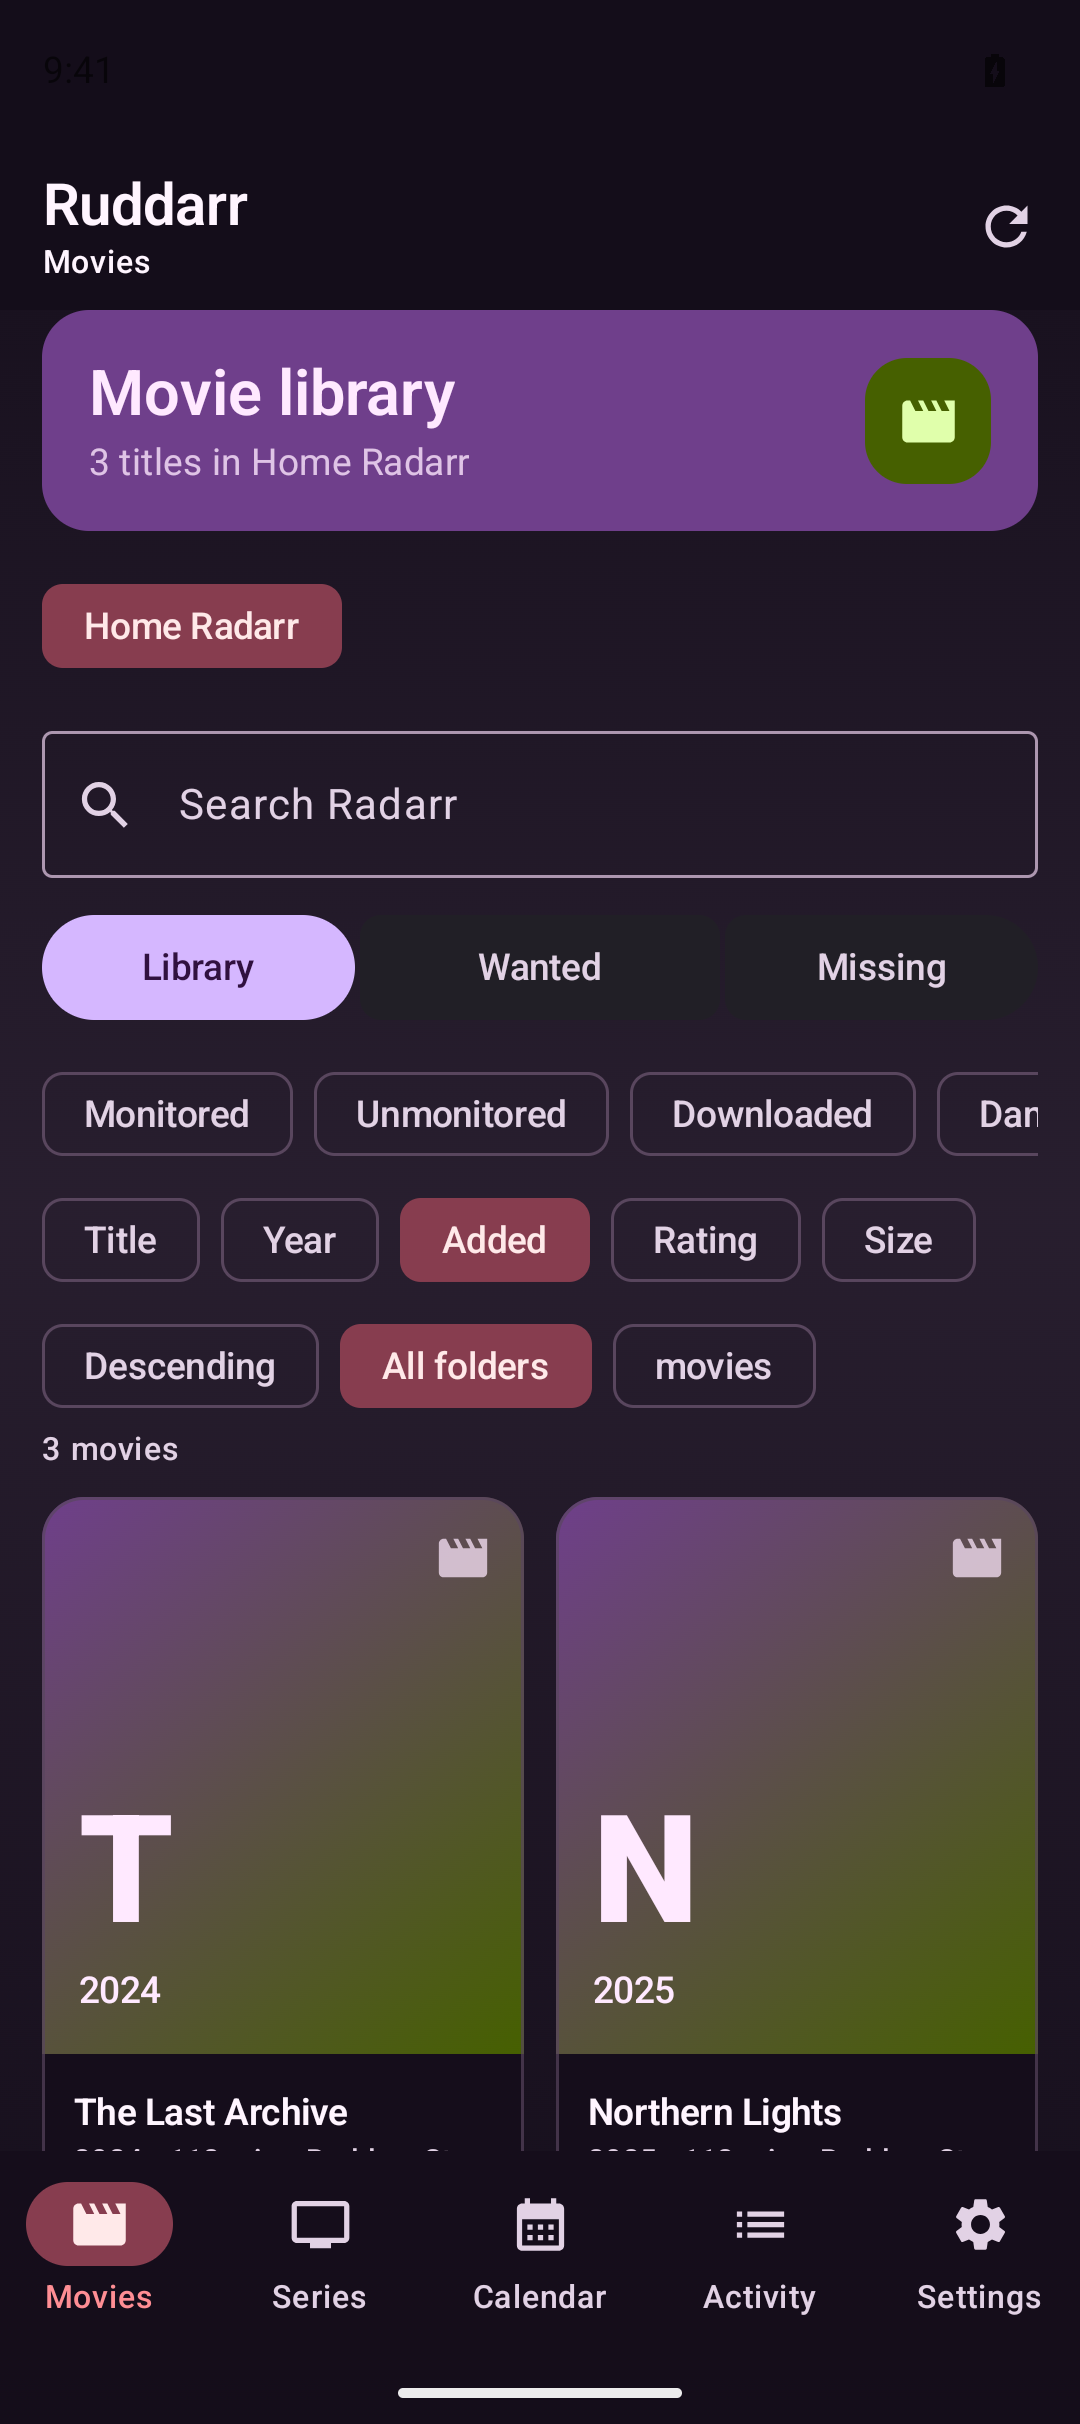
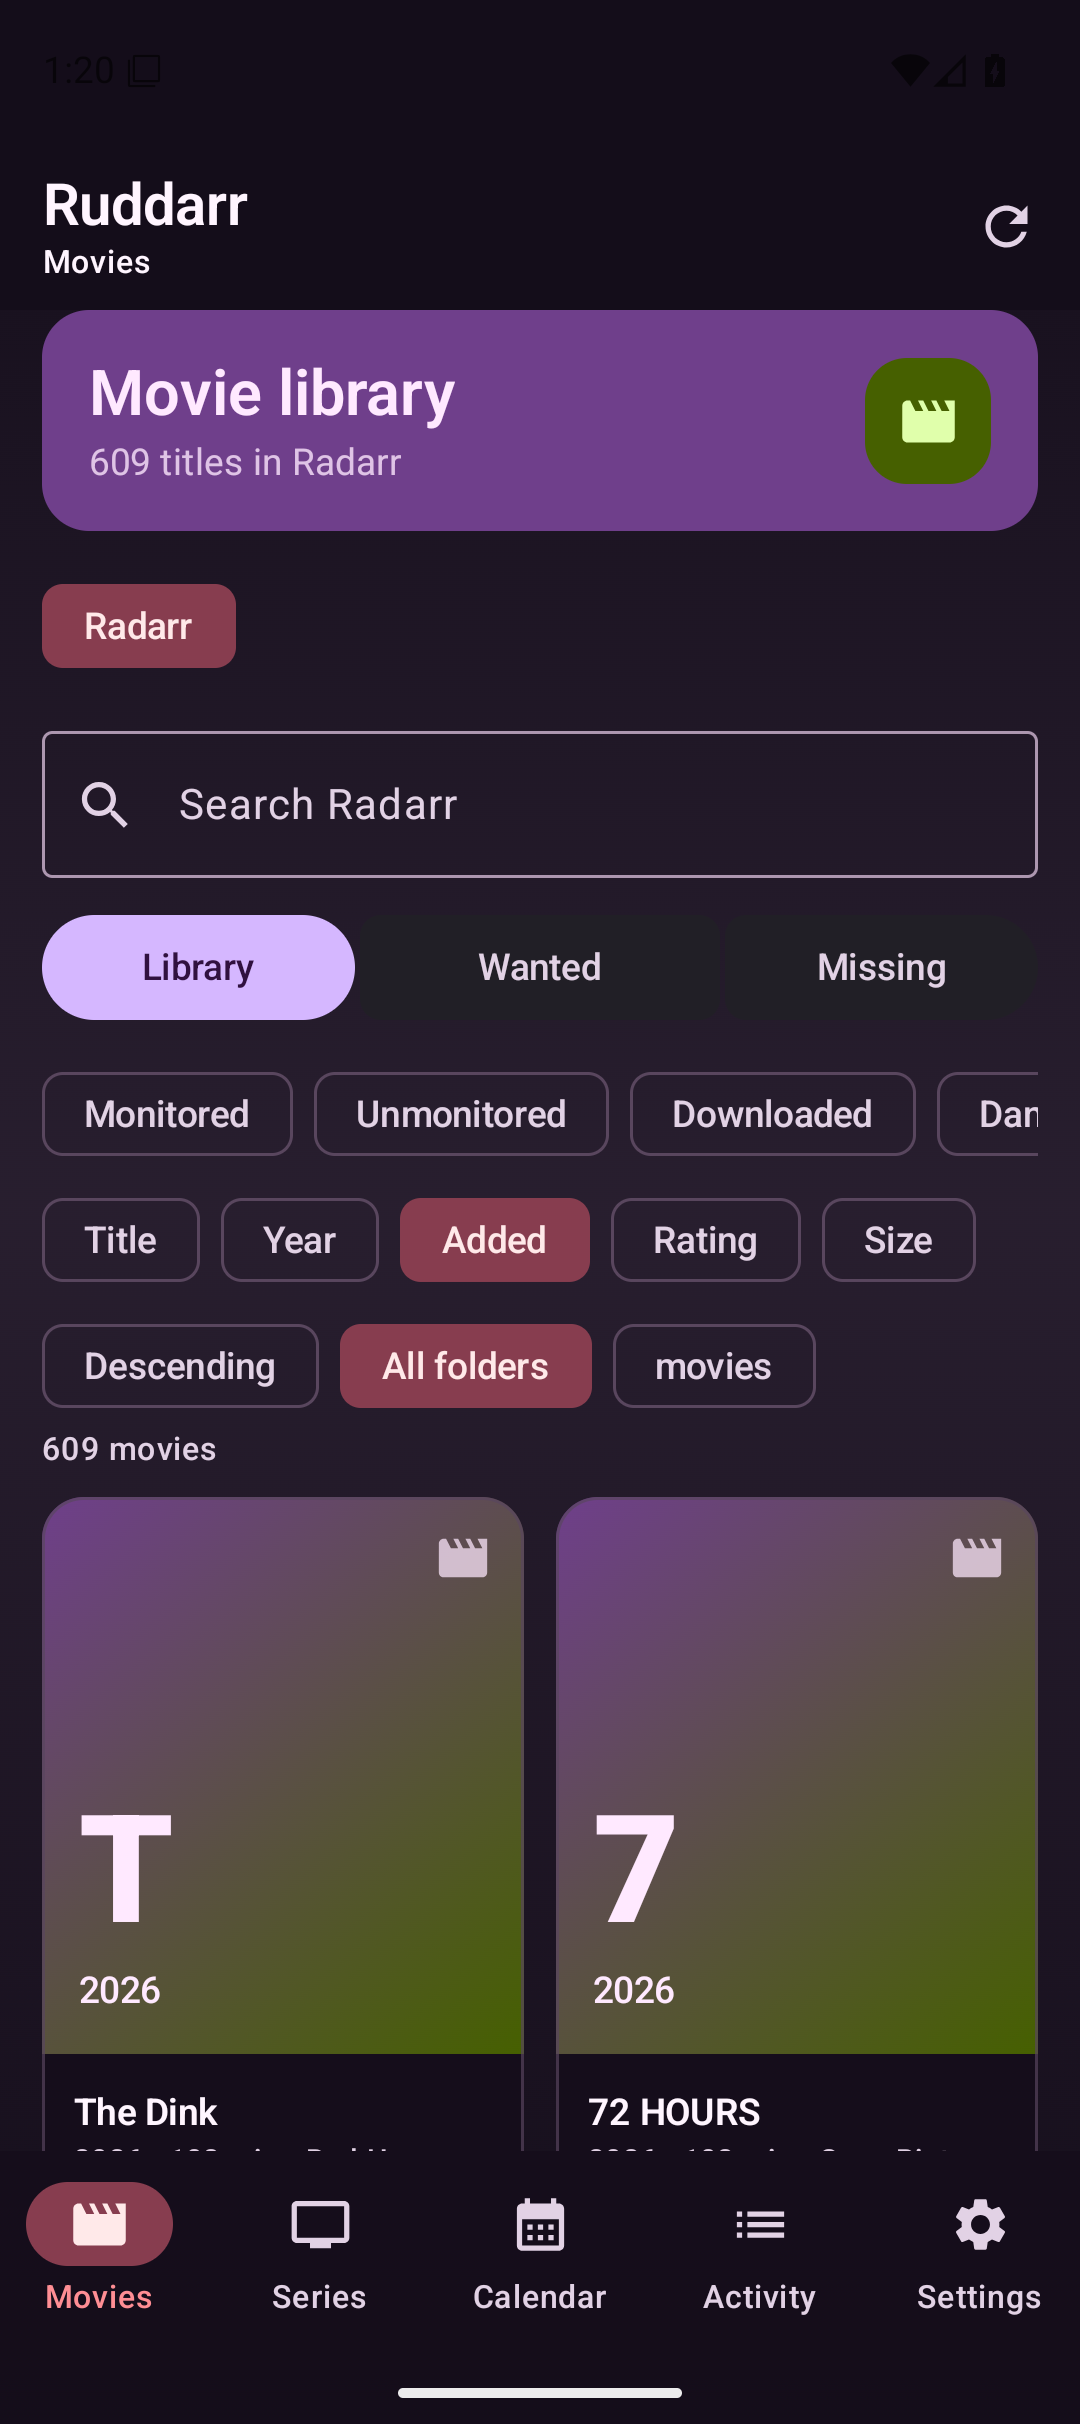
Fix Sonarr episode counts on Android and Wear OS
Refresh live library screenshots and add contribution and developer guides.

diff --git a/wearApp/src/main/java/uk/bleier/ruddarr/wear/WearData.kt b/wearApp/src/main/java/uk/bleier/ruddarr/wear/WearData.kt
@@ -69,6 +69,15 @@ data class WatchSnapshot(
     val items: List<WatchLibraryItem>,
 )
 
+internal fun sonarrEpisodeFileCount(statisticsCount: Int?, legacyCount: Int): Int = statisticsCount ?: legacyCount
+
+private fun JSONObject.sonarrEpisodeFileCount(): Int = sonarrEpisodeFileCount(
+    statisticsCount = optJSONObject("statistics")
+        ?.takeIf { it.has("episodeFileCount") }
+        ?.optInt("episodeFileCount"),
+    legacyCount = optInt("episodeFileCount"),
+)
+
 class WearInstanceStore(private val context: Context) {
     private val preferences = context.getSharedPreferences("ruddarr.wear.instances", Context.MODE_PRIVATE)
 
@@ -130,19 +139,20 @@ class WearArrApi {
             val available = if (instance.service == WatchService.RADARR) {
                 media.optBoolean("hasFile")
             } else {
-                media.optInt("episodeFileCount") > 0
+                media.sonarrEpisodeFileCount() > 0
             }
             val detail = when (instance.service) {
                 WatchService.RADARR -> listOf(year, if (available) "Ready" else "Wanted").filter { it.isNotBlank() }.joinToString(" · ")
                 WatchService.SONARR -> {
-                    val episodes = media.optInt("episodeFileCount")
+                    val episodes = media.sonarrEpisodeFileCount()
                     listOf(year, "$episodes episodes").filter { it.isNotBlank() }.joinToString(" · ")
                 }
             }
             WatchLibraryItem(title, detail, available)
         }
         val wanted = library.count { media ->
-            if (instance.service == WatchService.RADARR) !media.optBoolean("hasFile") else media.optInt("episodeFileCount") == 0
+            if (instance.service == WatchService.RADARR) !media.optBoolean("hasFile")
+            else media.sonarrEpisodeFileCount() == 0
         }
         WatchSnapshot(
             service = instance.service,

diff --git a/app/src/main/java/uk/bleier/ruddarr/domain/Models.kt b/app/src/main/java/uk/bleier/ruddarr/domain/Models.kt
@@ -108,6 +108,16 @@ data class MediaRecord(
     val hasFile: Boolean
         get() = if (service == ServiceType.RADARR) raw.optBoolean("hasFile", raw.has("movieFile"))
         else raw.optJSONObject("statistics")?.optDouble("percentOfEpisodes", 0.0)?.let { it >= 100.0 } == true
+    val episodeFileCount: Int
+        get() = raw.optJSONObject("statistics")
+            ?.takeIf { it.has("episodeFileCount") }
+            ?.optInt("episodeFileCount")
+            ?: raw.optInt("episodeFileCount")
+    val episodeCount: Int
+        get() = raw.optJSONObject("statistics")
+            ?.takeIf { it.has("episodeCount") }
+            ?.optInt("episodeCount")
+            ?: raw.optInt("episodeCount")
     val fileId: Int
         get() = raw.optInt("movieFileId").takeIf { it > 0 } ?: raw.optJSONObject("movieFile")?.optInt("id") ?: 0
     val filePath: String
@@ -133,6 +143,7 @@ data class MediaRecord(
     val details: String
         get() = buildList {
             if (year > 0) add(year.toString())
+            if (service == ServiceType.SONARR && episodeCount > 0) add("$episodeFileCount / $episodeCount episodes")
             raw.optInt("runtime").takeIf { it > 0 }?.let { add("${it} min") }
             raw.optString("network").takeIf { it.isNotBlank() }?.let(::add)
             raw.optString("studio").takeIf { it.isNotBlank() }?.let(::add)

diff --git a/app/src/androidTest/java/uk/bleier/ruddarr/domain/ModelsTest.kt b/app/src/androidTest/java/uk/bleier/ruddarr/domain/ModelsTest.kt
@@ -192,6 +192,32 @@ class ModelsTest {
     }
 
     @Test
+    fun seriesRecordUsesNestedEpisodeStatisticsInItsSummary() {
+        val series = MediaRecord(ServiceType.SONARR, JSONObject().apply {
+            put("year", 2024)
+            put("statistics", JSONObject().apply {
+                put("episodeFileCount", 12)
+                put("episodeCount", 24)
+            })
+        })
+
+        assertEquals(12, series.episodeFileCount)
+        assertEquals(24, series.episodeCount)
+        assertEquals("2024 · 12 / 24 episodes", series.details)
+    }
+
+    @Test
+    fun seriesRecordFallsBackToLegacyEpisodeCounts() {
+        val series = MediaRecord(ServiceType.SONARR, JSONObject().apply {
+            put("episodeFileCount", 3)
+            put("episodeCount", 5)
+        })
+
+        assertEquals(3, series.episodeFileCount)
+        assertEquals(5, series.episodeCount)
+    }
+
+    @Test
     fun releaseDownloadPayloadTargetsMovieSeasonOrEpisode() {
         val release = JSONObject().put("guid", "release-guid").put("indexerId", 17)
         val movie = MediaRecord(ServiceType.RADARR, JSONObject().put("id", 10))

diff --git a/wearApp/src/test/java/uk/bleier/ruddarr/wear/WatchInstanceTest.kt b/wearApp/src/test/java/uk/bleier/ruddarr/wear/WatchInstanceTest.kt
@@ -39,4 +39,14 @@ class WatchInstanceTest {
 
         assertEquals("Enter the API key.", instance.validationError())
     }
+
+    @Test
+    fun readsEpisodeFileCountsFromSonarrStatistics() {
+        assertEquals(12, sonarrEpisodeFileCount(statisticsCount = 12, legacyCount = 0))
+    }
+
+    @Test
+    fun fallsBackToLegacySonarrEpisodeFileCount() {
+        assertEquals(7, sonarrEpisodeFileCount(statisticsCount = null, legacyCount = 7))
+    }
 }

diff --git a/DEVELOPMENT.md b/DEVELOPMENT.md
@@ -1,0 +1,51 @@
+# Ruddarr for Android developer guide
+
+## Toolchain
+
+Use JDK 17 and an Android SDK containing API 37. The phone app has a minimum API level of 26; the standalone Wear OS app has a minimum API level of 30. Android Studio can import the repository directly, or use the Gradle wrapper from a shell.
+
+## Build and run
+
+```bash
+./gradlew :app:assembleDebug
+./gradlew :wearApp:assembleDebug
+```
+
+Install the generated debug APK for the module you want to run. The phone and watch use separate encrypted instance stores, so configuring one does not configure the other.
+
+### Local Android configuration
+
+Open **Settings** and add local Radarr or Sonarr instances. For repeatable private debug setup, copy the ignored seed template:
+
+```bash
+cp app/src/debug/assets/seed-instances.example.json app/src/debug/assets/seed-instances.json
+```
+
+Fill the copy with local values, run the debug app, and select **Load debug instance seeds** in Settings. Never commit the populated seed file.
+
+### Local Wear OS configuration
+
+Launch the Wear OS app on a round emulator or physical watch, open **Connections**, and configure Radarr and Sonarr directly. The watch connects to the configured local endpoints itself; it does not receive credentials from the phone.
+
+## Verification
+
+Run the checks appropriate to the module you changed:
+
+```bash
+./gradlew :app:connectedDebugAndroidTest
+./gradlew :wearApp:testDebugUnitTest :wearApp:lintDebug
+```
+
+For visual changes, verify the phone on a compact device and Wear OS on both 384 px and 454 px round displays. Exercise the library, loading, empty, and error states; confirm long titles and metric labels stay visible inside the round-screen safe area.
+
+## Project map
+
+- `app/src/main/java/uk/bleier/ruddarr/MainActivity.kt` contains the Android Compose navigation and screens.
+- `app/src/main/java/uk/bleier/ruddarr/RuddarrViewModel.kt` coordinates screen state and Arr actions.
+- `app/src/main/java/uk/bleier/ruddarr/data` contains direct Arr requests and encrypted local instance storage.
+- `app/src/main/java/uk/bleier/ruddarr/domain` maps Arr responses to displayable models.
+- `wearApp/src/main/java/uk/bleier/ruddarr/wear` contains the standalone Wear OS UI, storage, and direct Arr status client.
+
+## Release flow
+
+The Android-only GitHub Actions workflow builds the phone and Wear OS APKs. It requires the Android signing secrets documented in the README. Pushing an `android-v*` tag publishes the signed artifacts; do not change signing configuration or versioning as part of ordinary feature work.

diff --git a/CONTRIBUTING.md b/CONTRIBUTING.md
@@ -1,0 +1,36 @@
+# Contributing to Ruddarr for Android
+
+Thanks for helping improve the Android and Wear OS clients. Keep each change focused on a user-visible bug or feature and preserve the local-first design: no account, cloud backend, Firebase, or remote credential storage.
+
+## Before opening a pull request
+
+1. Create a focused branch and keep unrelated formatting or refactors out of the change.
+2. Build the affected app modules:
+
+   ```bash
+   ./gradlew :app:assembleDebug :wearApp:assembleDebug
+   ```
+
+3. Run the relevant checks:
+
+   ```bash
+   ./gradlew :app:connectedDebugAndroidTest
+   ./gradlew :wearApp:testDebugUnitTest :wearApp:lintDebug
+   ```
+
+   `connectedDebugAndroidTest` requires a running phone emulator or device. Check Wear OS changes on both a small round and a larger round emulator when they affect layout.
+
+4. Update `CHANGELOG.md` under **Unreleased** for user-visible changes. Keep `TestFlight/WhatToTest.en-US.txt` in sync with that entry.
+5. Describe the behavior, verification, and any UI impact in the pull request. Include screenshots only when they do not reveal server URLs, API keys, or private media metadata.
+
+## Code and UI expectations
+
+- Write idiomatic Kotlin and Jetpack Compose, matching the surrounding module rather than introducing a new architectural layer.
+- Keep phone UI in `app` and watch UI in `wearApp`; the watch must remain independently configurable and make its own local requests.
+- Use Material 3 Expressive components and motion already provided by the project. Preserve clear contrast, readable text, touch targets, and round-screen safe padding.
+- Add or update a focused test whenever parsing, mapping, or user-visible state changes.
+- Use concise imperative commit subjects, such as `Fix Sonarr episode counts`.
+
+## Credentials and local data
+
+Never commit server addresses, API keys, emulator data, release keystores, or screenshots of Settings. For a private Android debug setup, copy `app/src/debug/assets/seed-instances.example.json` to `app/src/debug/assets/seed-instances.json`; Git ignores the populated file. Configure Wear OS instances directly on the test watch.

diff --git a/README.md b/README.md
@@ -16,12 +16,17 @@ A native Kotlin and Jetpack Compose client for self-hosted Radarr and Sonarr ins
 
 ## Screenshots
 
+### Android
+
 <p>
-  <img src="docs/screenshots/movies.png" alt="Movies library" width="19%">
-  <img src="docs/screenshots/series.png" alt="Series seasons" width="19%">
-  <img src="docs/screenshots/calendar.png" alt="Calendar" width="19%">
-  <img src="docs/screenshots/activity.png" alt="Activity queue" width="19%">
-  <img src="docs/screenshots/settings.png" alt="Local instance settings" width="19%">
+  <img src="docs/screenshots/movies.png" alt="Live Radarr movie library on Android" width="32%">
+  <img src="docs/screenshots/series.png" alt="Live Sonarr series library on Android" width="32%">
+</p>
+
+### Wear OS
+
+<p>
+  <img src="docs/screenshots/wear-series.png" alt="Live Sonarr series status on Wear OS" width="32%">
 </p>
 
 ## Requirements
@@ -46,6 +51,8 @@ Download the signed Android or Wear OS APK from the [GitHub Releases](https://gi
 Add instances directly in **Settings**. For a private debug seed file, copy `app/src/debug/assets/seed-instances.example.json` to `app/src/debug/assets/seed-instances.json`, fill in your local instance values, and use **Load debug instance seeds**. The seed file is ignored by Git.
 
 The Wear OS app is standalone: configure its local Radarr and Sonarr URLs directly on the watch. Its credentials are stored separately with Android Keystore and it makes direct local network requests; no cloud account or Firebase is involved.
+
+See [DEVELOPMENT.md](DEVELOPMENT.md) for setup, architecture, and local verification, and [CONTRIBUTING.md](CONTRIBUTING.md) for contribution expectations.
 
 The repository ships an Android release workflow. It requires these GitHub Actions secrets:
 

diff --git a/CHANGELOG.md b/CHANGELOG.md
@@ -41,6 +41,7 @@ and this project adheres to [Semantic Versioning](https://semver.org/spec/v2.0.0
 - Several dozen internal code improvements
 
 ### Fixed
+- Read Sonarr episode-file statistics for Android and Wear OS series summaries
 - Keep Wear OS library metric labels readable on small round displays
 - Fixed loading local Radarr and Sonarr instances served over HTTP
 - Fixed toasts not displaying above some sheets
